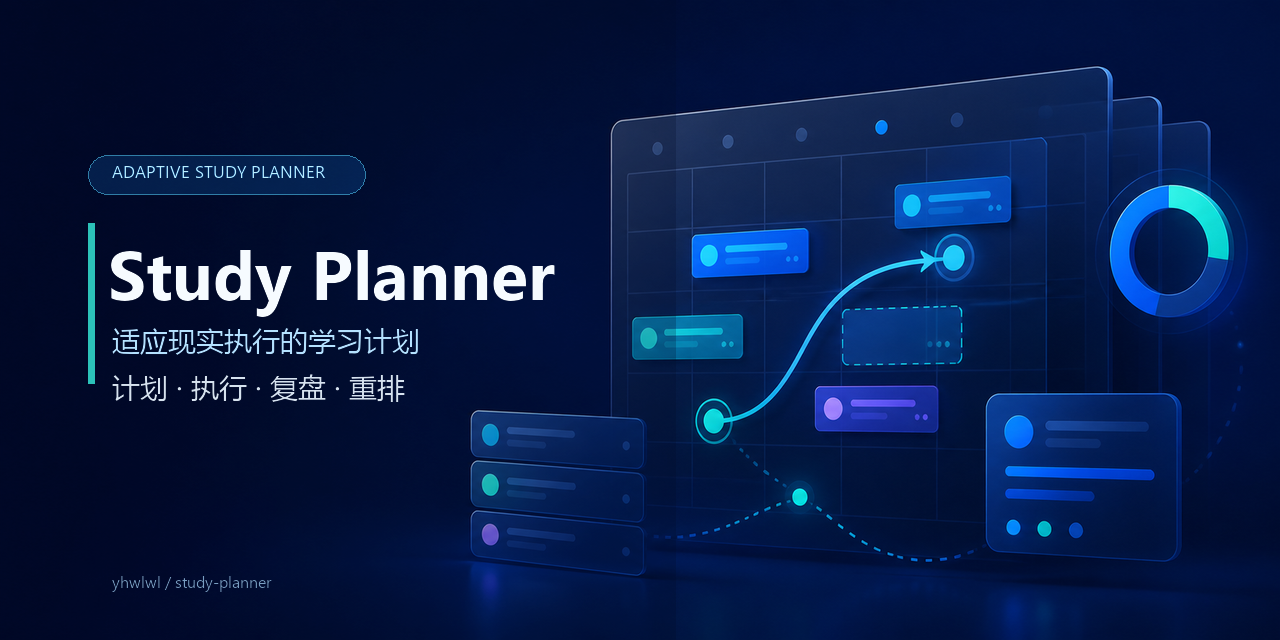
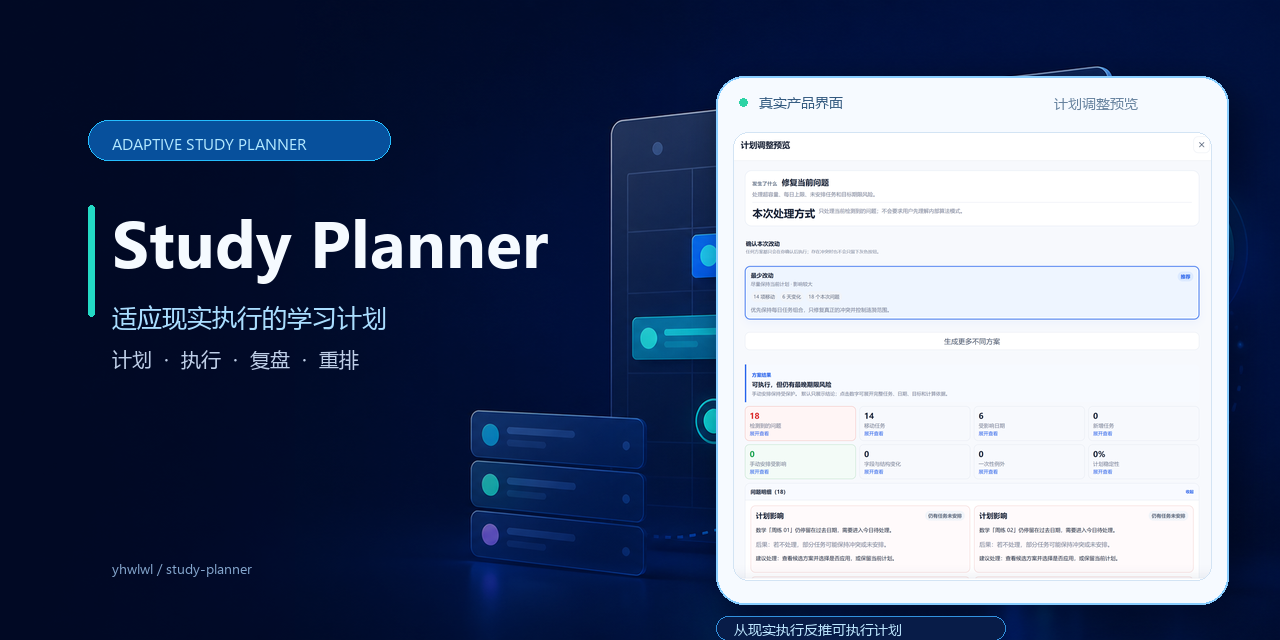
chore: switch project license to AGPLv3

diff --git a/docs/CHANGELOG.md b/docs/CHANGELOG.md
@@ -11,7 +11,7 @@
 - 新增 `VISIT_COUNT_OFFSET`，可补入经其他可信来源确认的历史访问基数；不会伪造无法恢复的历史明细。
 - 修复历史日期补录实际用时的归属：从今天返回过去日期后保存的用时会计入所选历史日；今天和未来任务的实际执行仍计入今天。
 - 统一首页手动记录和计时器结算的日期写入，避免本地凌晨被 UTC 时间误算到前一天。
-- 补充 MIT License、GitHub 社交预览封面，并修复 validation 验证文件名的中文乱码。
+- 补充 AGPLv3、GitHub 社交预览封面，并修复 validation 验证文件名的中文乱码。
 
 ## v0.8.14 过去未完成任务顺延修复
 

diff --git a/README.md b/README.md
@@ -6,7 +6,7 @@
 
 **Live Demo / 在线体验：** [https://study-planner.yhwlwl.xyz](https://study-planner.yhwlwl.xyz)
 
-[![License: MIT](https://img.shields.io/badge/License-MIT-yellow.svg)](LICENSE)
+[![License: AGPLv3](https://img.shields.io/badge/License-AGPLv3-blue.svg)](LICENSE)
 
 ![Study Planner rescheduling preview](docs/images/01-rescheduling-preview.png)
 
@@ -318,4 +318,4 @@ npm run build
 
 ## License
 
-Study Planner is released under the [MIT License](LICENSE).
+Study Planner is released under the [GNU Affero General Public License v3.0 or later](LICENSE).
